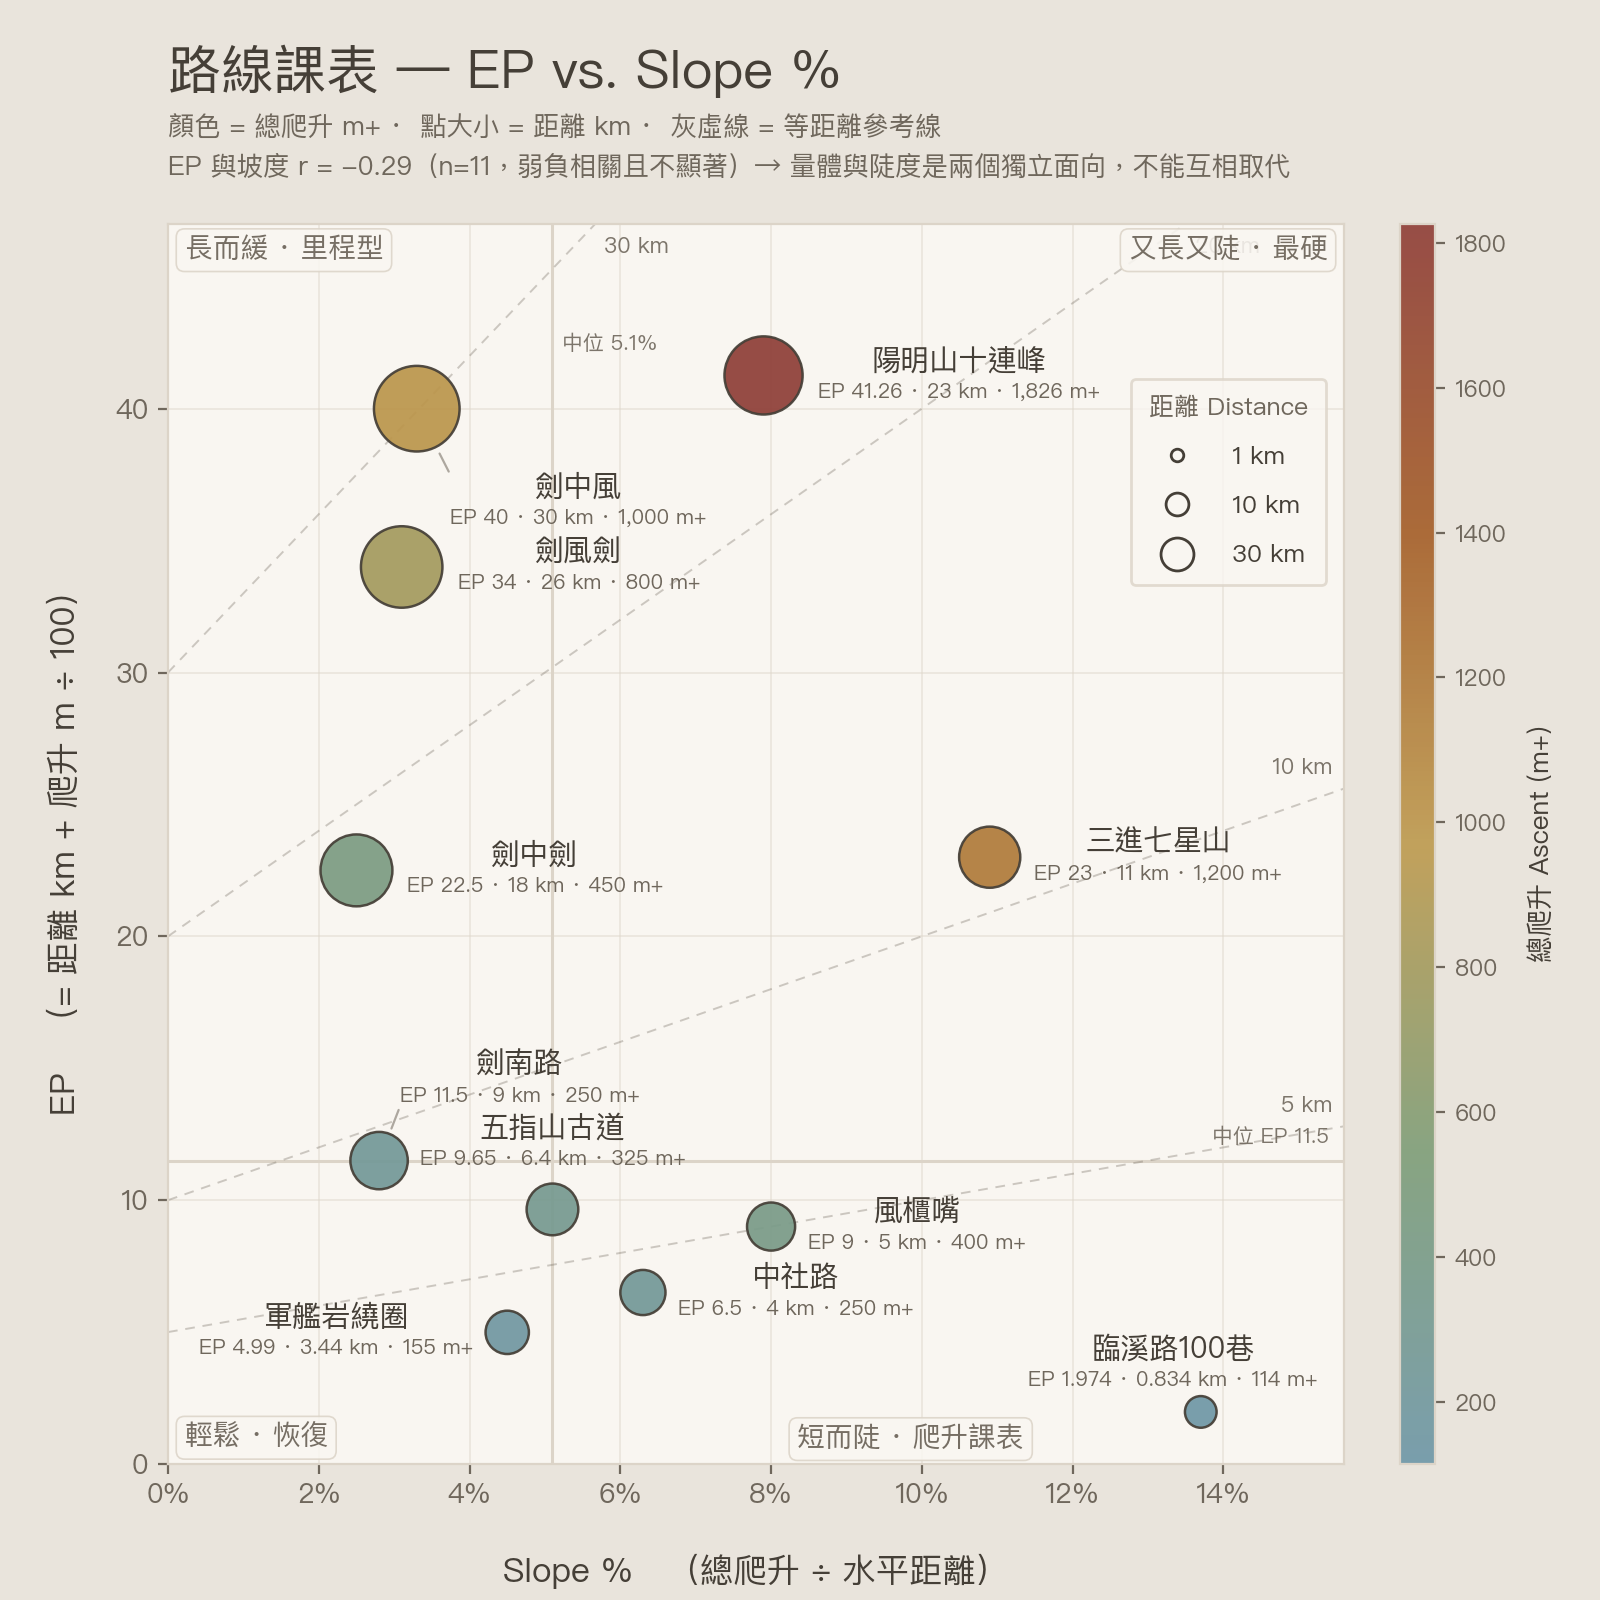
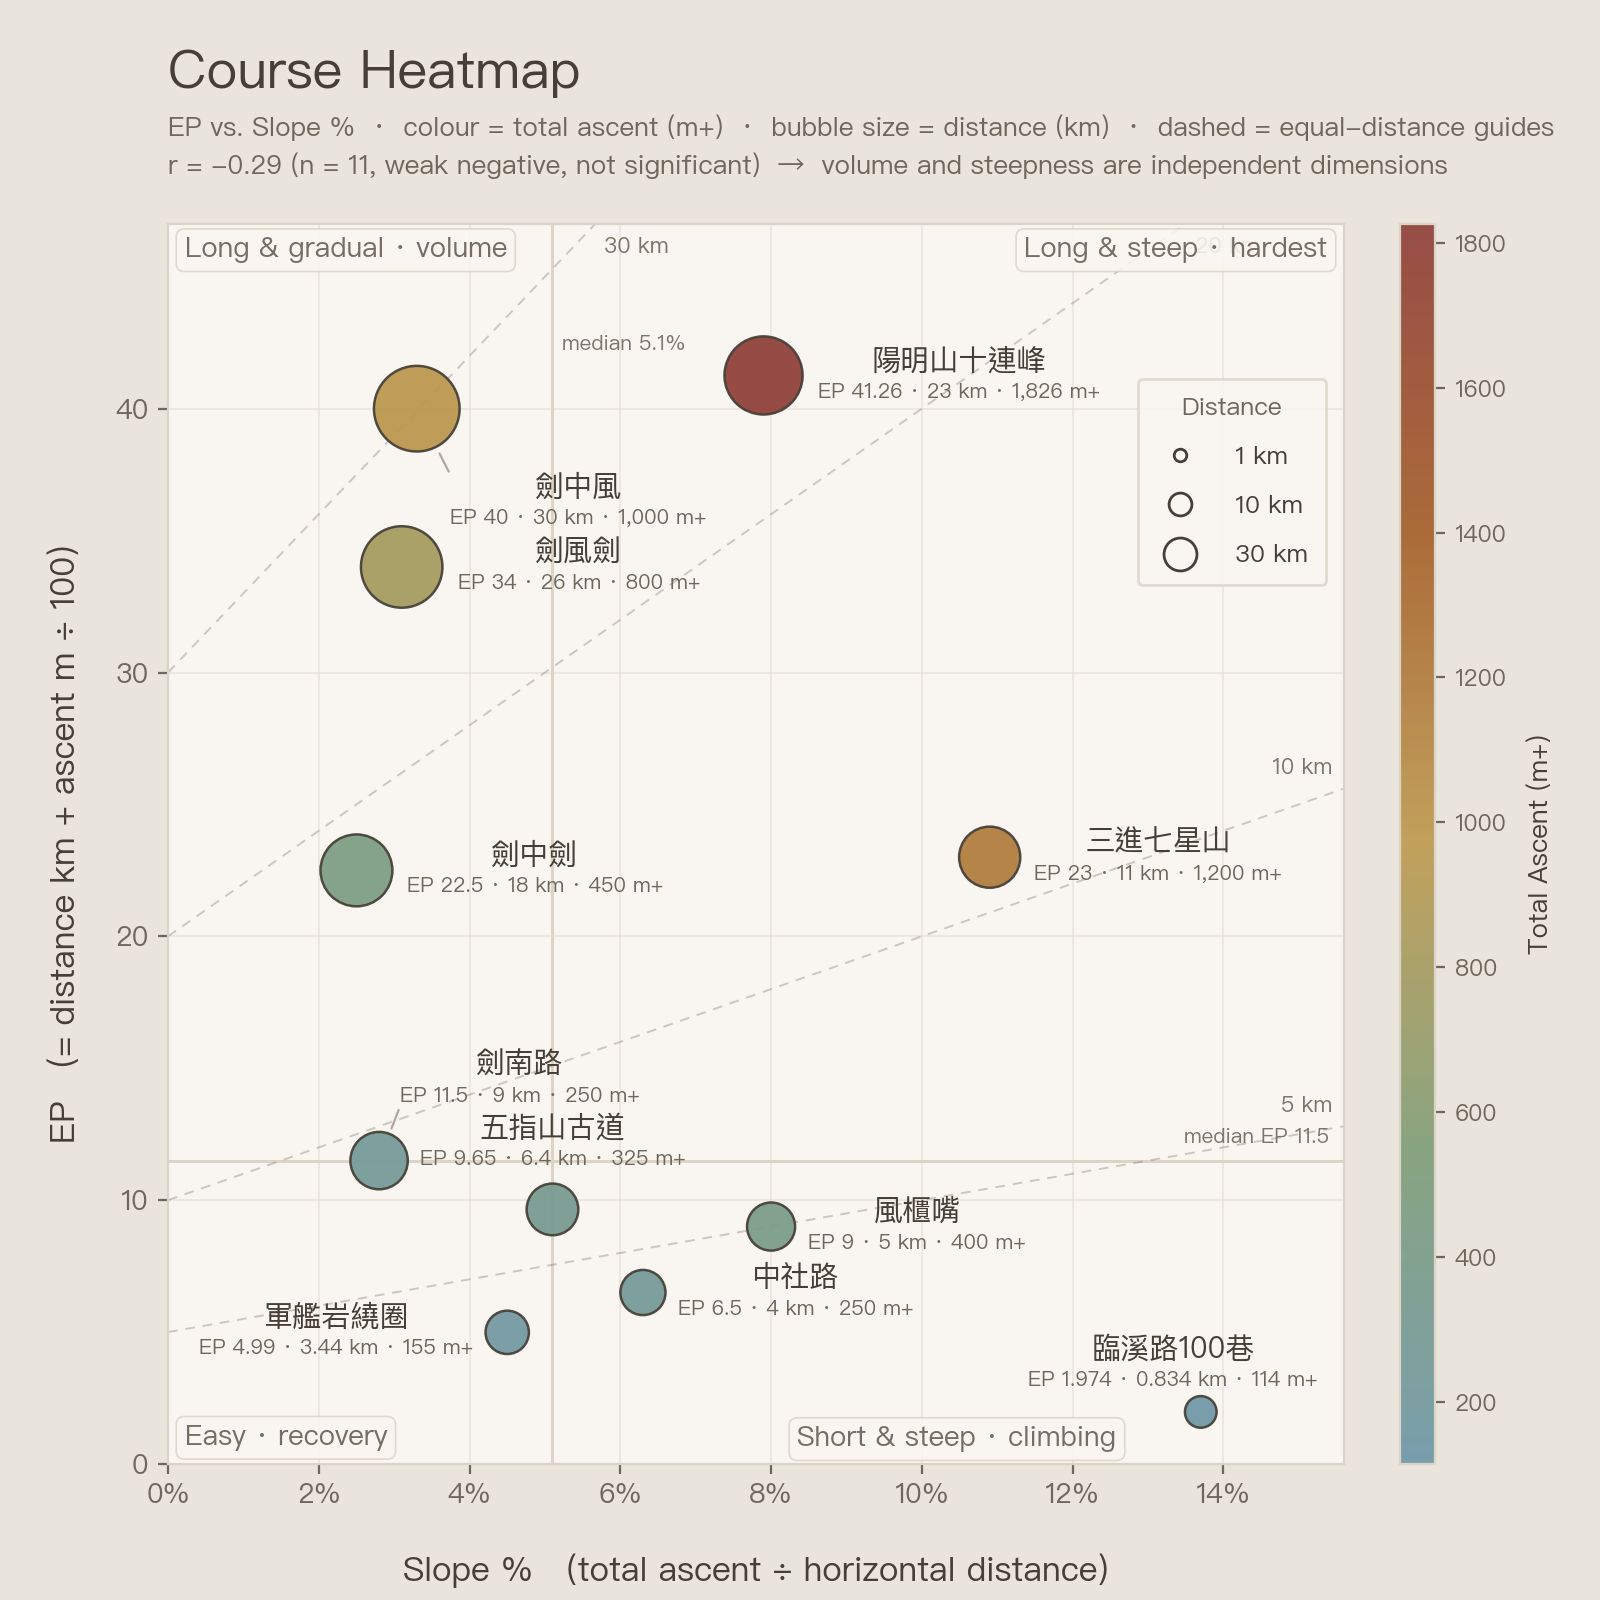
Course Heatmap: English labelling, route names kept in Chinese
Retitled the figure "Course Heatmap" and translated every label — subtitles,
axis titles, quadrant tags, median markers, legend and colourbar. The eleven
route names stay in Chinese, as asked.

English runs wider than the Chinese it replaced and the correlation line
overflowed the canvas, so the plot script now measures each header line against
the figure width and asserts it fits rather than leaving it to the eye.

The dashboard card title and alt text follow the figure's language.

diff --git a/index.html b/index.html
@@ -481,15 +481,15 @@ main { padding: 20px 24px; }
        rendered PNG of the Notion route table, so it is labelled as such in the header. -->
   <div class="chart-card">
     <div class="chart-header">
-      <div class="section-title" style="margin:0">路線課表 — EP vs. Slope %</div>
+      <div class="section-title" style="margin:0">Course Heatmap — EP vs. Slope %</div>
       <div style="font-size:11px;color:var(--muted)">
-        靜態參考圖 · 來源為 Notion 路線表（規劃用），非 Google Sheet 的實際活動紀錄
+        Static reference · from the Notion route-plan table, not the Google Sheet activity log
       </div>
     </div>
     <a class="static-figure" href="assets/EP_vs_Slope.png" target="_blank" rel="noopener"
        title="開啟原圖 1600×1600">
       <img src="assets/EP_vs_Slope.png" loading="lazy"
-           alt="路線課表 EP vs Slope % 散點圖：x 為坡度、y 為 EP、顏色為總爬升、點大小為距離，灰虛線為等距離參考線">
+           alt="Course Heatmap: EP vs. slope %, colour = total ascent, bubble size = distance, dashed lines = equal-distance guides">
     </a>
   </div>
 

diff --git a/training_dashboard.html b/training_dashboard.html
@@ -481,15 +481,15 @@ main { padding: 20px 24px; }
        rendered PNG of the Notion route table, so it is labelled as such in the header. -->
   <div class="chart-card">
     <div class="chart-header">
-      <div class="section-title" style="margin:0">路線課表 — EP vs. Slope %</div>
+      <div class="section-title" style="margin:0">Course Heatmap — EP vs. Slope %</div>
       <div style="font-size:11px;color:var(--muted)">
-        靜態參考圖 · 來源為 Notion 路線表（規劃用），非 Google Sheet 的實際活動紀錄
+        Static reference · from the Notion route-plan table, not the Google Sheet activity log
       </div>
     </div>
     <a class="static-figure" href="assets/EP_vs_Slope.png" target="_blank" rel="noopener"
        title="開啟原圖 1600×1600">
       <img src="assets/EP_vs_Slope.png" loading="lazy"
-           alt="路線課表 EP vs Slope % 散點圖：x 為坡度、y 為 EP、顏色為總爬升、點大小為距離，灰虛線為等距離參考線">
+           alt="Course Heatmap: EP vs. slope %, colour = total ascent, bubble size = distance, dashed lines = equal-distance guides">
     </a>
   </div>
 

diff --git a/docs/DESIGN.md b/docs/DESIGN.md
@@ -157,7 +157,7 @@ same Excellent → Good → Fair → Poor order.
 3. Recent 8 Weeks — Load Summary *(full width)*
 4. Distribution by Category | 專項訓練 Seasonality
 5. 專項訓練 Long Runs *(full width)* — the >20 km bubbles above it, as a table
-6. 路線課表 EP vs. Slope % *(full width)* — a static PNG, not a canvas
+6. Course Heatmap, EP vs. Slope % *(full width)* — a static PNG, not a canvas
 
 The two load charts are paired in row 2 because they are two readings of the same thing:
 a ratio against your own preparation, and an absolute against a derived ceiling.

diff --git a/README.md b/README.md
@@ -44,7 +44,7 @@ same render path as real data.
 | Recent 8 Weeks load table (full width) | |
 | Distribution by Category | 專項訓練 Seasonality |
 | 專項訓練 Long Runs — every session over 20 km (full width) | |
-| 路線課表 — EP vs. Slope %, a static reference figure (full width) | |
+| Course Heatmap — EP vs. Slope %, a static reference figure (full width) | |
 
 **Recovery & Body tab**
 
